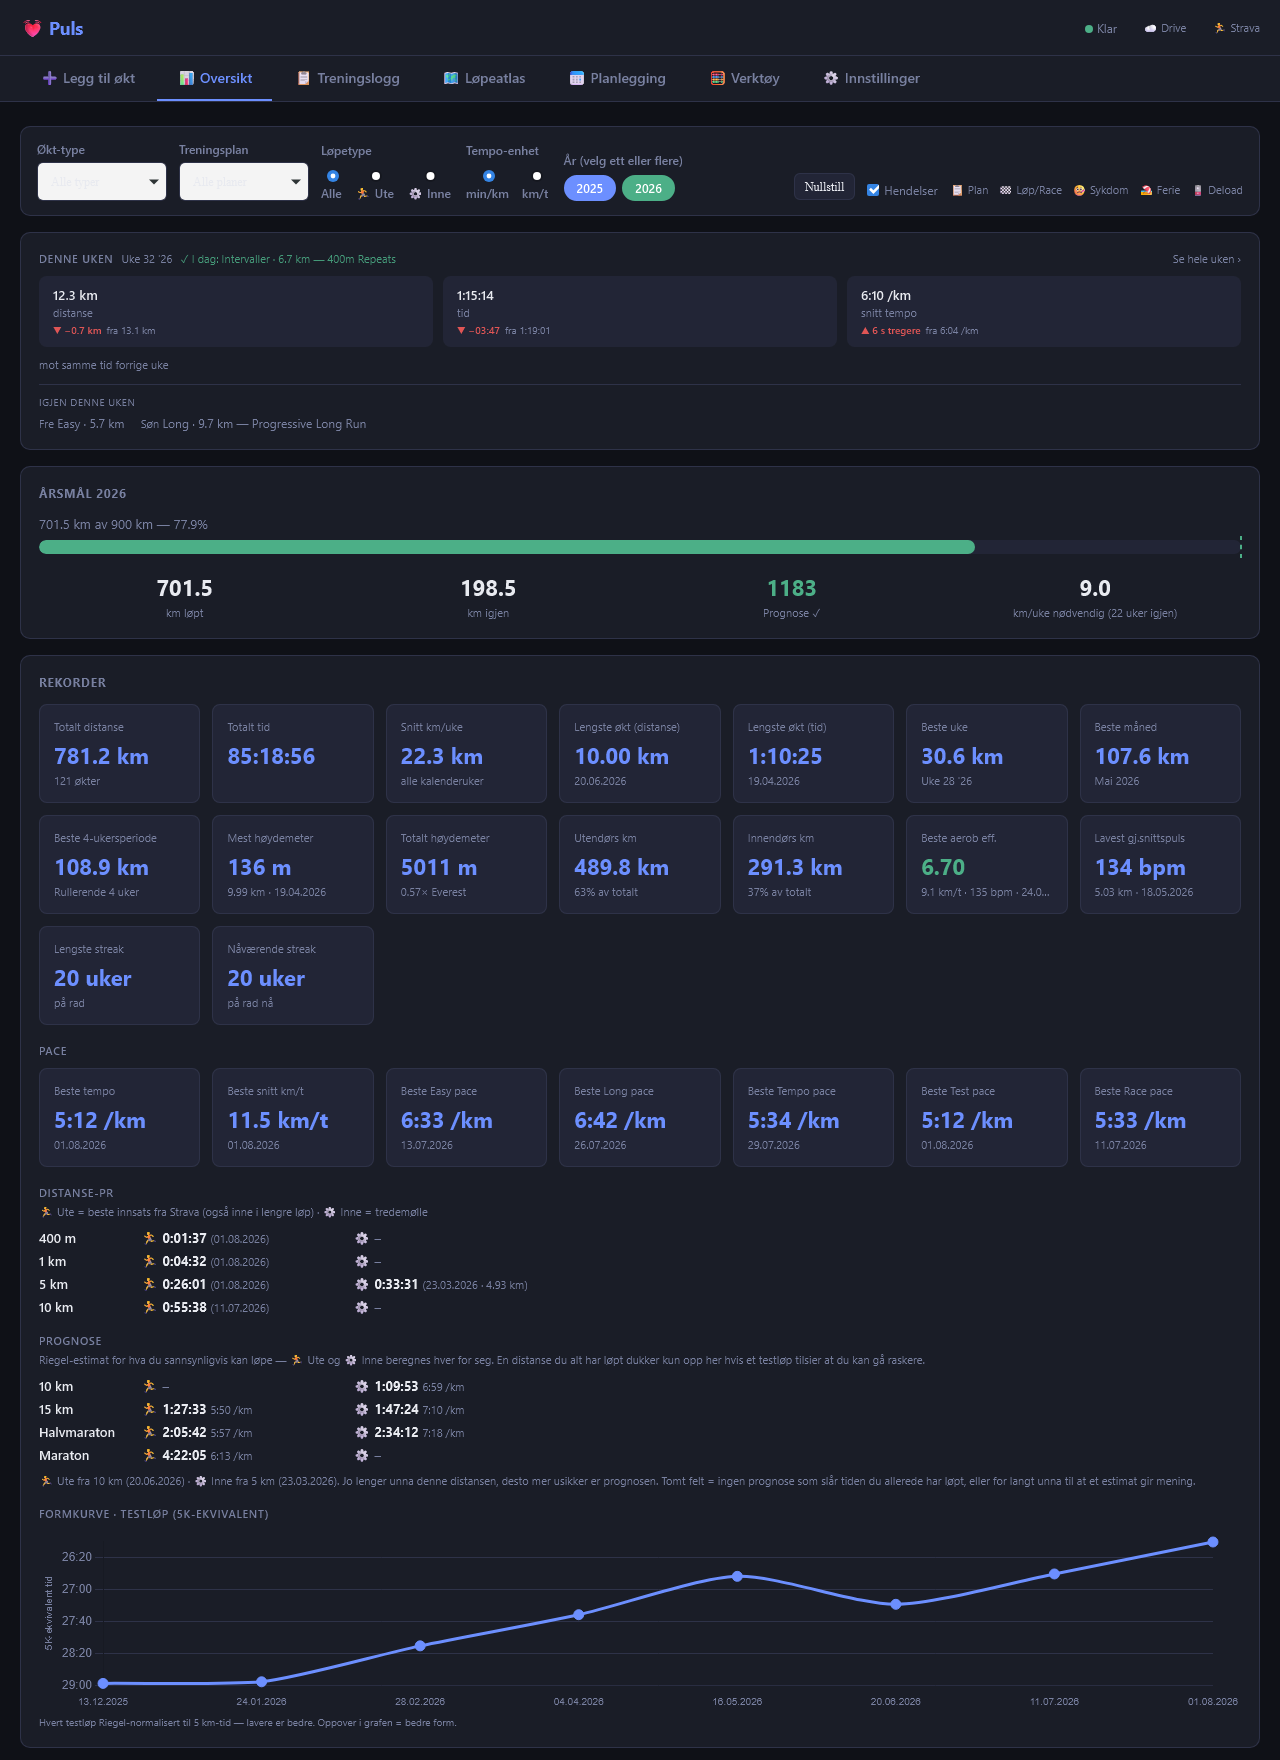
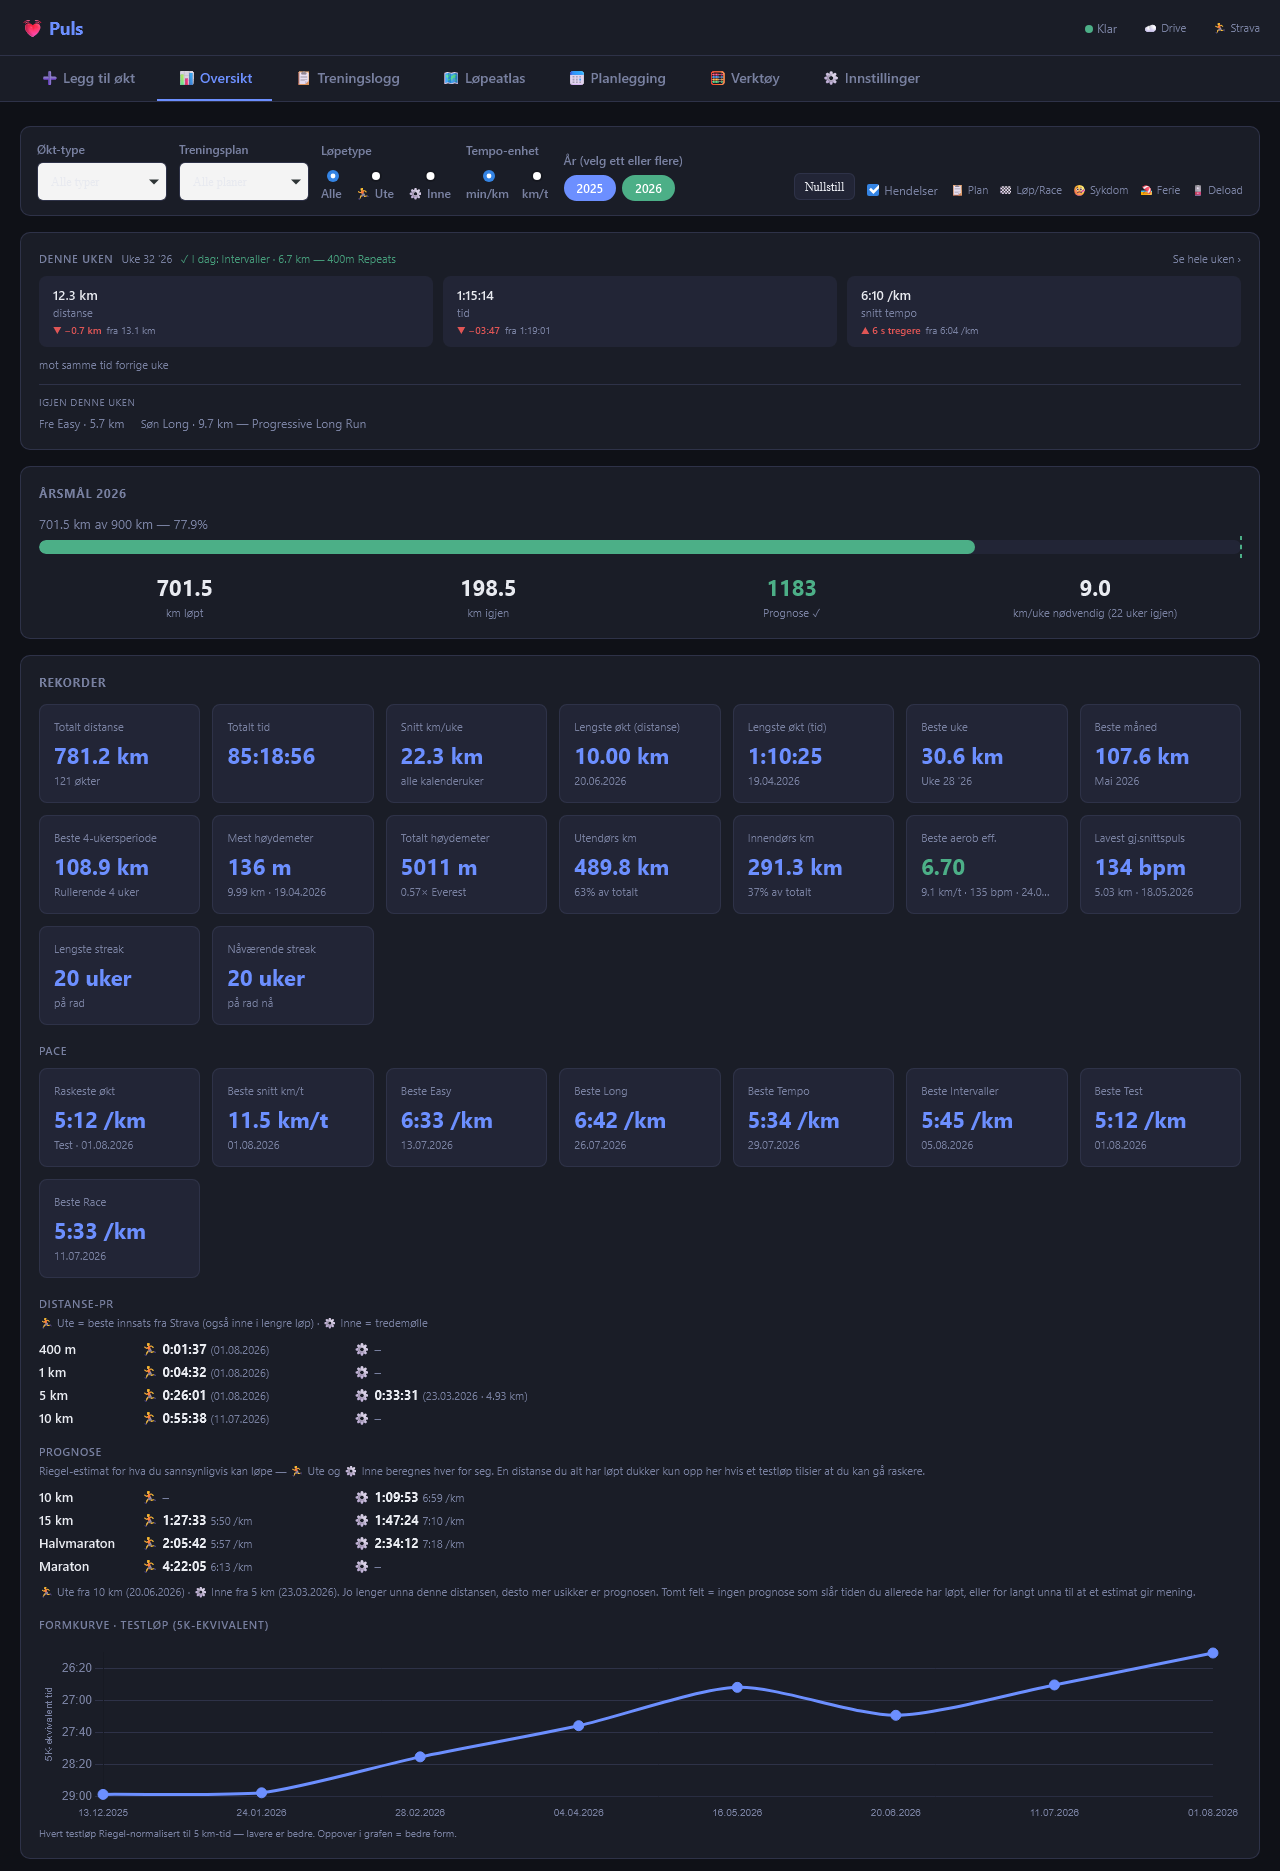
Docs: pace cards and plan-matching attribution in README, dashboard shot regenerated

diff --git a/README.md b/README.md
@@ -36,7 +36,7 @@ A self-contained single-file running tracker — log a run in seconds and follow
 - **Yearly goal card** — progress bar with km done, km remaining, year-end projection, and required weekly km to stay on track; a **dashed projection marker** on the bar shows where the year-end forecast lands relative to the goal (green if on track, red if short), so the gap to target is visible at a glance
 - **Rekorder** — five sub-sections. Everything here is derived from your runs; nothing is typed in by hand.
   - **Hovedrutenett** — total distance and time, avg km/week, longest session by distance and by time, best week / month / rolling 4-week block, most and total elevation gain (with an Everest multiple), outdoor vs indoor km, best aerobic efficiency, lowest avg HR on a run ≥ 5 km, longest and current streak. Aerobic efficiency and current streak are colour-coded (red/amber/green/blue), and the efficiency tile has a hover tooltip for the scale (Lav < 4.0 · Moderat 4.0–5.5 · God 5.5–7.0 · Høy > 7.0)
-  - **Pace** — best overall pace, best avg km/h, and the best pace for each session type (Easy / Long / Tempo / Test / Race)
+  - **Pace** — **Raskeste økt** (your fastest run of any type, with the **session type named beside the date**, so the row answers *which kind of session produces your fastest running* and not just what the number is), best avg km/h, then one card per session type. The type cards are **generated from the session-type list**, so adding a type gives it a card automatically. *Steady* is deliberately left out: it's a catch-all for runs that fit no other type, so a "best Steady pace" would average over a mixed bag and describe nothing
   - **Distanse-PR** — 400 m → marathon, one row per distance, with **two independent columns**. 🏃 **Ute** is Strava's best effort: the fastest stretch at that distance *inside any outdoor run*, so segments count and a fast 5 km within a 10 km run is a 5 km PB. ⚙ **Inne** derives the same idea from the treadmill streams — the fastest continuous 5 km (etc.) inside any belt run — because Strava computes best efforts outdoors only. It falls back to a whole belt run at that distance, and the cell says which: a date alone is an exact split, a date plus a distance is a whole run. Three rules keep it honest:
     - Outdoor and treadmill are **never merged into one number** — belt and GPS measure differently, and belt reads systematically faster
     - A distance qualifies only within **±2 %** of the nominal length, so the label always means what it says — an empty cell beats a wrong one
@@ -121,7 +121,7 @@ An **Alle · Fullførte · Gjenstår** filter switches between every badge, the 
 - **Hendelser** — events (Plan / Løp/Race / Sykdom / Ferie / Deload / Taper / Annet) shown as vertical markers on the charts; events with an end date render as spans — anomaly periods (Sykdom/Ferie/Deload/Taper/Annet) get a shaded fill, while Plan events draw start/end boundary lines only (a multi-week plan fill would tint the whole chart); the Hendelser chart toggle defaults off on small screens where the markers crowd the charts; Plan events can carry a total-km target (headline metric — steadier than weekly, since deload/taper weeks legitimately vary) plus optional weekly km/run targets, and drive the Treningsblokker cards; ✏ opens the event in the form for in-place editing (e.g. adding an end date after the fact) — the button flips to "Lagre endringer" with an Avbryt escape
 - **Sko** — manage shoe list with km totals; set an optional **km wear limit** and **obtained month** per shoe (via **Rediger** on existing shoes) so each card shows its **age** (e.g. "Kjøpt jun 2024 · 1 år 1 mnd") next to the km-wear bar; **Pensjonér** a shoe to hide it from the form dropdown while keeping historical data; **Aktiver** restores it; used in the log filter and form dropdown. A **Standard sko** row picks a default shoe per venue (*Utendørs* / *Tredemølle*) — the log form pre-selects that shoe by run type (and swaps when you toggle Ute↔Inne), still overridable per session
 - **Løp & Races** — lists all race events with matched session stats. A race event can carry an optional **Distanse (km)**, which shows on upcoming races (where the stats line was otherwise blank), is named in the race-countdown insight, and lets the session match pick the run *closest to that distance* rather than the longest one nearby. It also appears in the **Hendelser** row itself, in the space a race's missing end date leaves — "Runna 5K test" carries the distance in its name, "adidas x Anton Sport: Social Run" doesn't, and since the field steers which run gets matched, a blank one is worth being able to see. Selecting **Løp/Race** in Hendelser swaps the Sluttdato field for Distanse — a race is one day. Both Hendelser and Løp & Races show the **10 most recent** by default with a **▾ Vis alle (N)** / **▴ Vis færre** toggle when there are more
-- **Planlagte økter** *(optional)* — an opt-in enhancement, not a required step; Puls works fully without it. Import your **Runna** training-plan calendar (`.ics`) to track planned-vs-actual. In Runna: *Profile → Connected Apps & Devices → Connected Calendar → Other calendar → Copy URL*, open that link in a browser to download the `.ics`, then pick it here. One import per training block covers the whole block. Imports are **additive across blocks** — a new block's import replaces only its own date range, so every finished block keeps its plan and still shows its planned-vs-actual in its block detail view. The card itself lists the **active** block, so it looks the same as it always did; there is no "when is it safe to re-import". Each planned run gets a **done ✓ / missed ✗ / upcoming ○** status — matched to your logged runs by week + nearest date + type — plus a block adherence count; strength and ad-hoc runs are skipped. Two rules keep a run from completing a session it has nothing to do with: a run logged **before** its planned day only counts when the **type matches** (Wednesday's Long run on Tuesday counts; Tuesday's intervals are not Wednesday's Long done early), and a session logged as **Egentrening** never completes a programme's session at all — that's what the field means. Swapping intensity on the day is still a completed session, not a miss. A run planned for **today** stays *upcoming* (○), not missed — it only turns ✗ once the day has fully passed, and it's left out of the adherence count until then, so an unfinished session today never drags the percentage down. Sessions that fall inside a registered **Sykdom or Ferie** period are marked *excused* (–) and left out of the adherence count too — you weren't available, so they don't count as missed (a run you *did* do while away still counts as done). This mirrors how **Treningsrytme** already excuses those weeks. The imported plan also feeds the **active training-block card** on the dashboard (an adherence bar + your next few sessions), the block's detail panel (the full planned list), and the **log form's prefill** (Økt-type + Mål distanse for that day — see Logging)
+- **Planlagte økter** *(optional)* — an opt-in enhancement, not a required step; Puls works fully without it. Import your **Runna** training-plan calendar (`.ics`) to track planned-vs-actual. In Runna: *Profile → Connected Apps & Devices → Connected Calendar → Other calendar → Copy URL*, open that link in a browser to download the `.ics`, then pick it here. One import per training block covers the whole block. Imports are **additive across blocks** — a new block's import replaces only its own date range, so every finished block keeps its plan and still shows its planned-vs-actual in its block detail view. The card itself lists the **active** block, so it looks the same as it always did; there is no "when is it safe to re-import". Each planned run gets a **done ✓ / missed ✗ / upcoming ○** status — matched to your logged runs by week + nearest date + type — plus a block adherence count; strength and ad-hoc runs are skipped. Two rules keep a run from completing a session it has nothing to do with: a run logged **before** its planned day only counts when the **type matches** (Wednesday's Long run on Tuesday counts; Tuesday's intervals are not Wednesday's Long done early), and a session logged as **Egentrening** never completes a programme's session at all — that's what the field means. Swapping intensity on the day is still a completed session, not a miss. When several runs and sessions compete in one week, the **clearest pairs are settled first** rather than the earliest planned session claiming whatever is available — so missing one session mid-week no longer shifts the credit onto every later one and reports the last session of the week as the miss. A run planned for **today** stays *upcoming* (○), not missed — it only turns ✗ once the day has fully passed, and it's left out of the adherence count until then, so an unfinished session today never drags the percentage down. Sessions that fall inside a registered **Sykdom or Ferie** period are marked *excused* (–) and left out of the adherence count too — you weren't available, so they don't count as missed (a run you *did* do while away still counts as done). This mirrors how **Treningsrytme** already excuses those weeks. The imported plan also feeds the **active training-block card** on the dashboard (an adherence bar + your next few sessions), the block's detail panel (the full planned list), and the **log form's prefill** (Økt-type + Mål distanse for that day — see Logging)
 
 ### 🧮 Verktøy (own tab)
 Stateless calculators. **None of them read your data** — that is the defining rule of the tab, not an implementation detail: they have to answer for paces you have never run (a plan target, someone else's race, a goal you are not yet fit for). Nothing here is saved, so nothing here can go stale.
